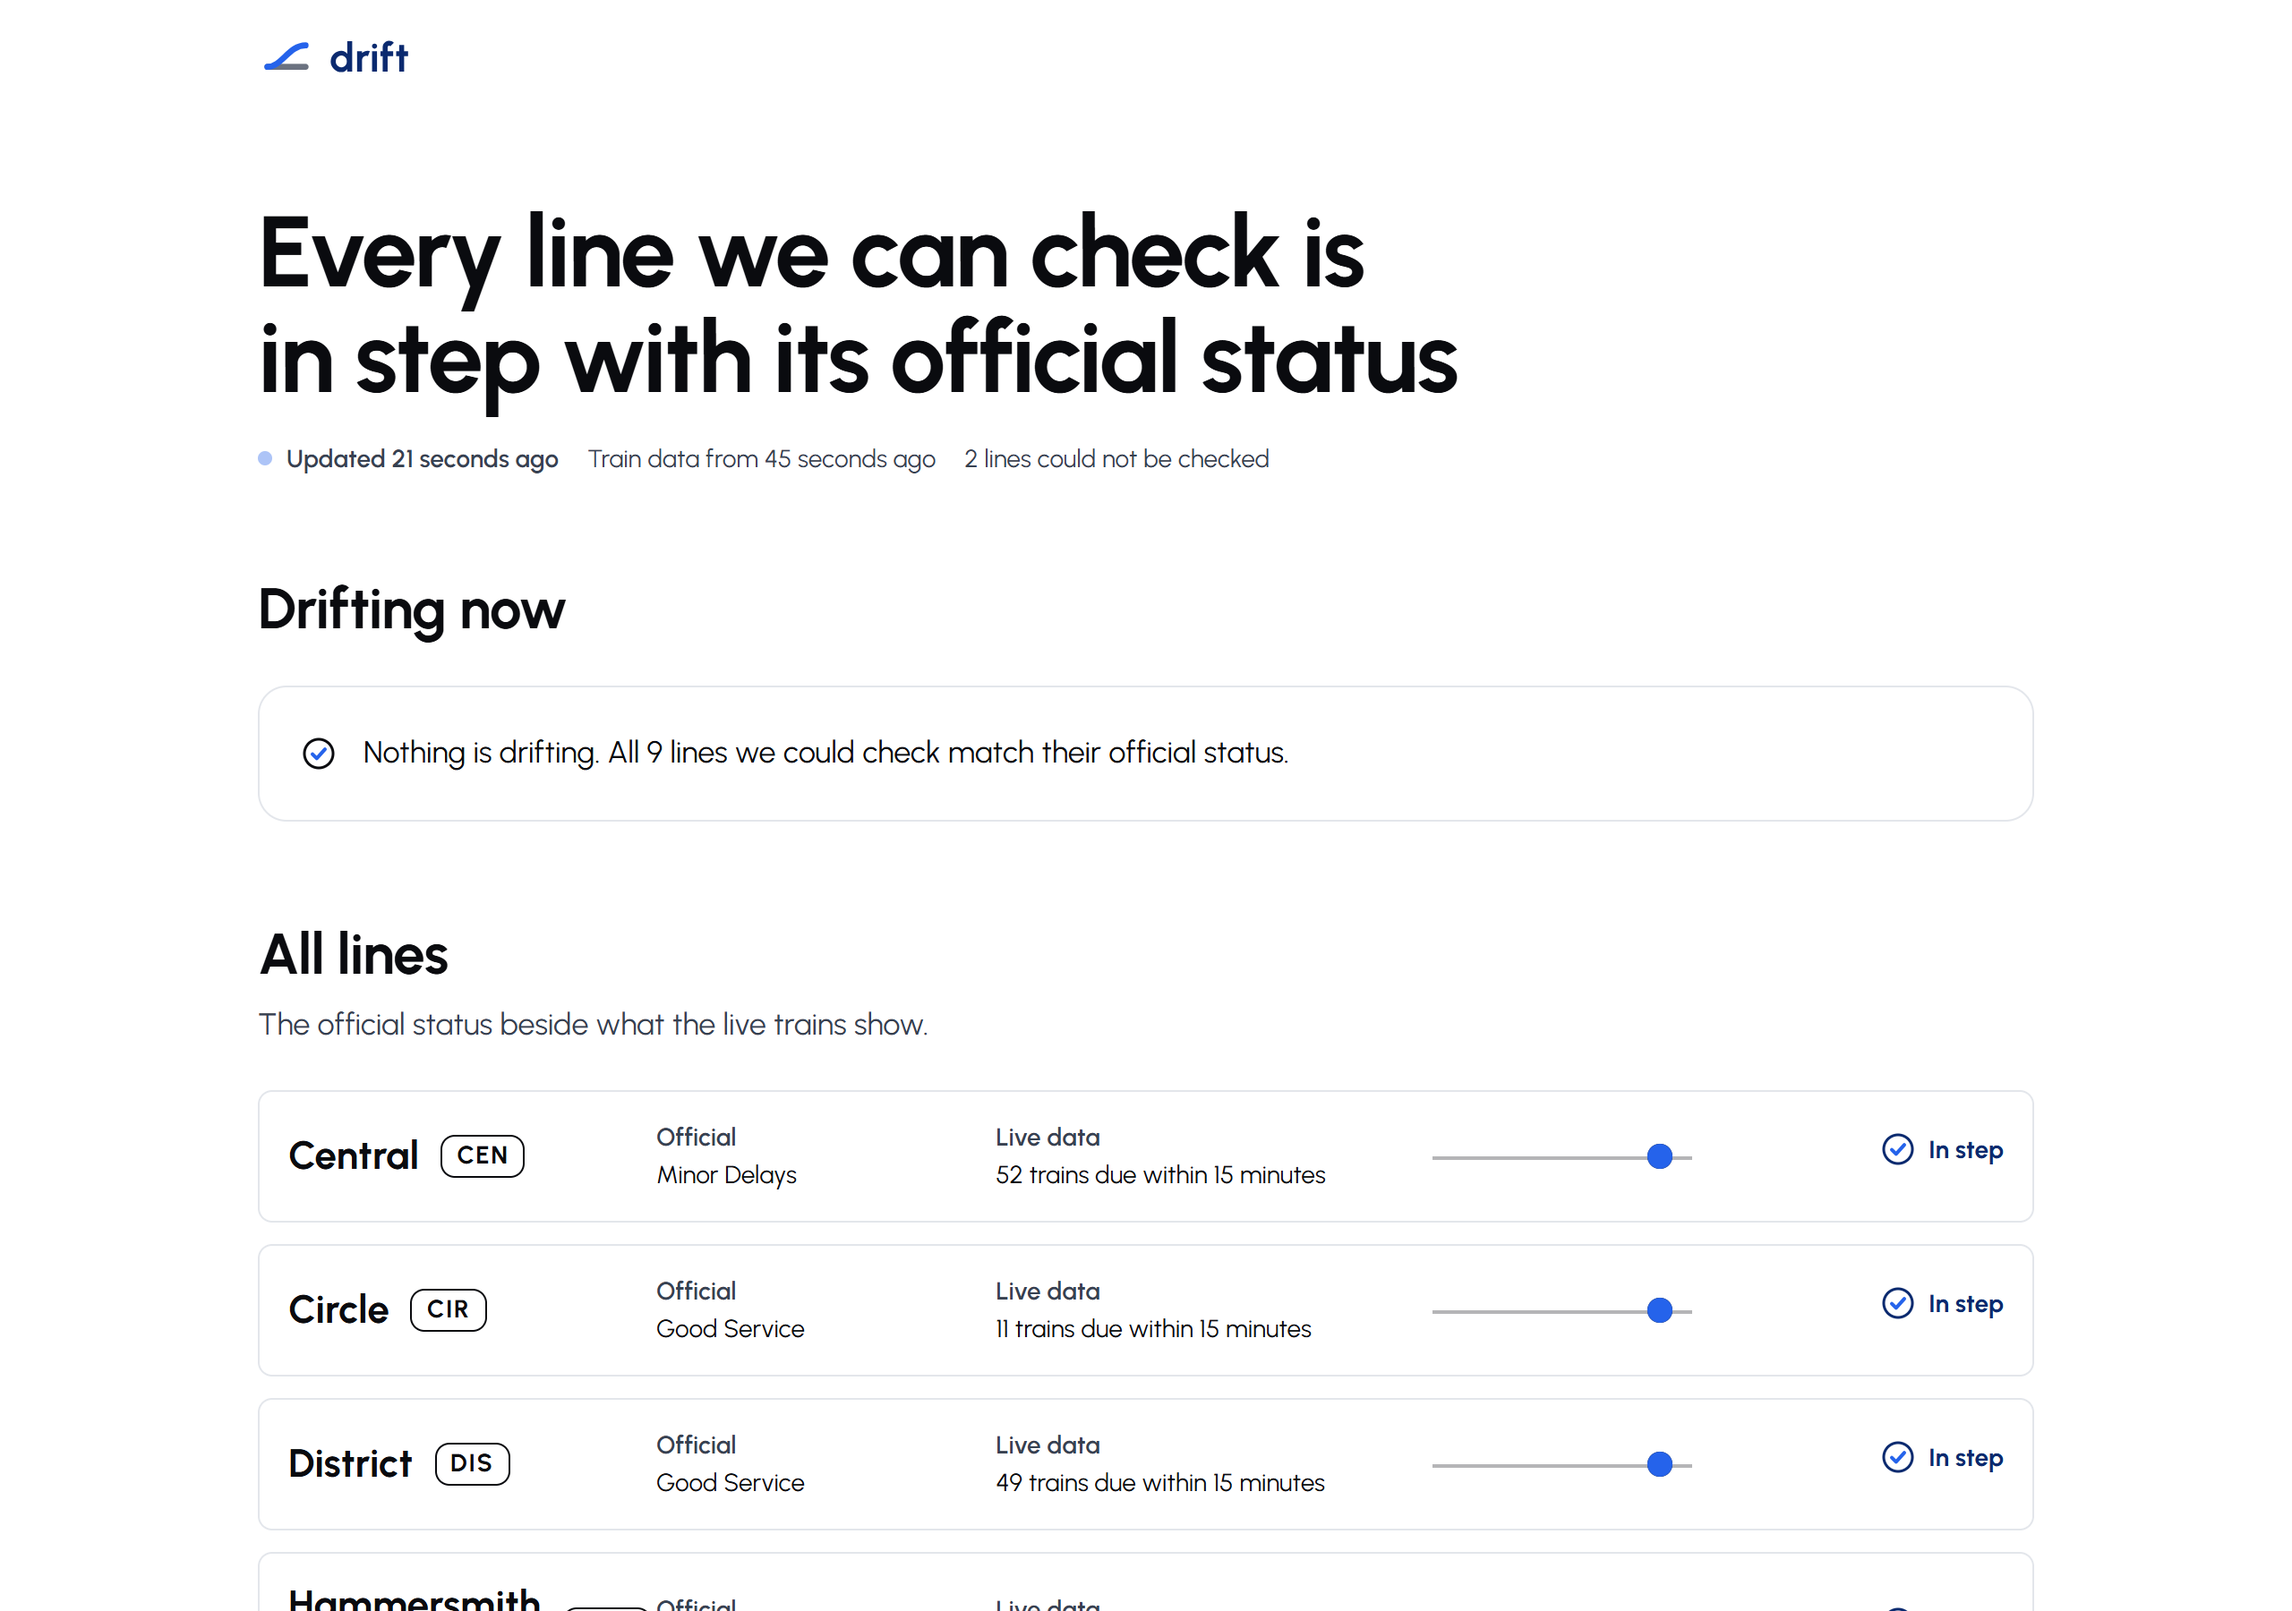
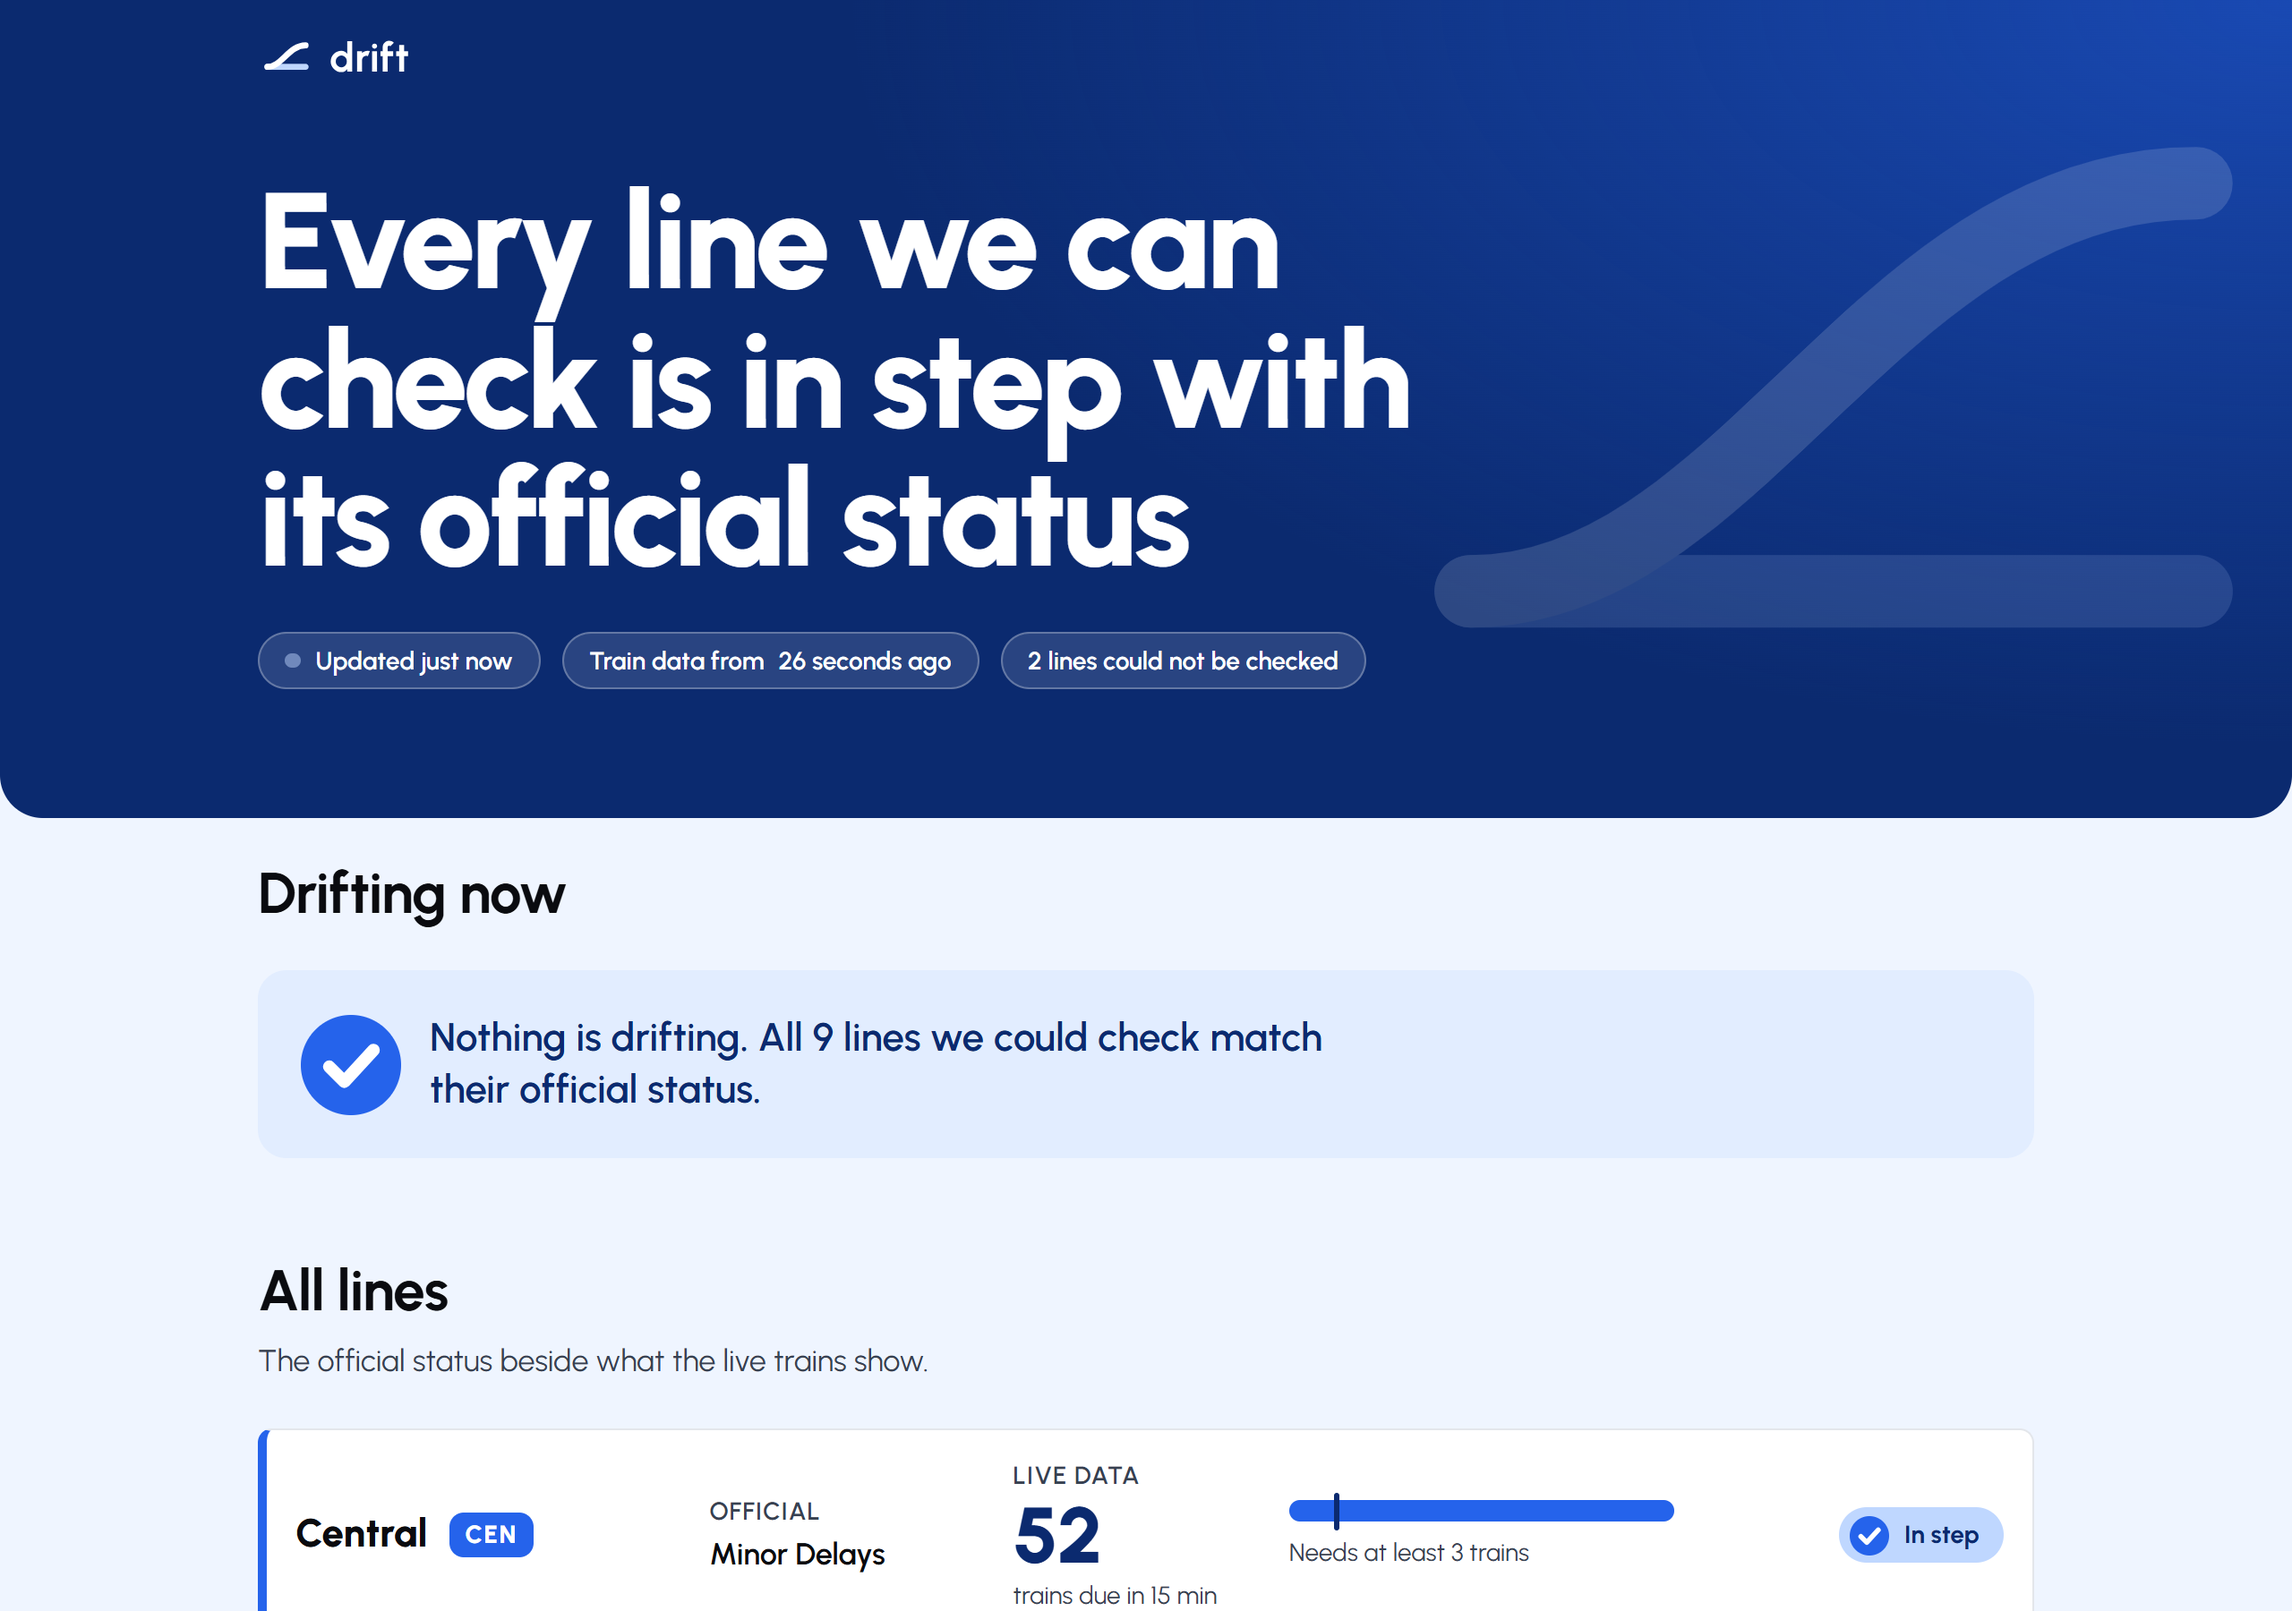
docs: record live Lighthouse scores after the redesign and retake the live screenshots

diff --git a/README.md b/README.md
@@ -9,11 +9,18 @@ the rule that fired, a plain reason and how confident it is.
 
 **Live:** https://drift.oyedokunken.workers.dev
 
-| On a phone (sample mode)                                      | On a desktop (sample mode)                                      |
+| Live, on a phone                                      | Live, on a desktop                                       |
+| ----------------------------------------------------- | -------------------------------------------------------- |
+| ![Drift on a phone](docs/screenshots/live-mobile.png) | ![Drift on a desktop](docs/screenshots/live-desktop.png) |
+
+The images above are the real live site, with the network healthy. The mismatch design
+is shown in sample mode:
+
+| Sample mode, 375px                                            | Sample mode, 1280px                                             |
 | ------------------------------------------------------------- | --------------------------------------------------------------- |
 | ![Mismatch cards at 375px](docs/screenshots/mismatch-375.png) | ![Mismatch cards at 1280px](docs/screenshots/mismatch-1280.png) |
 
-Both images use sample mode: open `/?sample=1` to see the mismatch design built from
+The sample images come from `/?sample=1`: open `/?sample=1` to see the mismatch design built from
 fixture data by the real engine, under a persistent "Sample data, not live" banner. It
 only turns on for that exact query parameter and makes no network request. No real
 mismatch has appeared in the hours Drift has been watched (see
@@ -148,7 +155,7 @@ See [docs/VERIFICATION.md](docs/VERIFICATION.md) for the dated record. In short:
   real persisted storage: success, a stale fallback when TfL rejected the key, and a
   typed 503 with empty storage. The key appeared in no log or response.
 - Lighthouse on the deployed site, mobile profile, median of three runs:
-  **Performance 97, Accessibility 100, Best Practices 100, SEO 100.**
+  **Performance 98, Accessibility 100, Best Practices 100, SEO 100** (after the 2026-11-08 redesign).
 - No horizontal scroll at 320, 375, 768 or 1280 pixels.
 
 Size: the initial JavaScript is about 115 KB gzipped (React is 67 KB of that), with a
